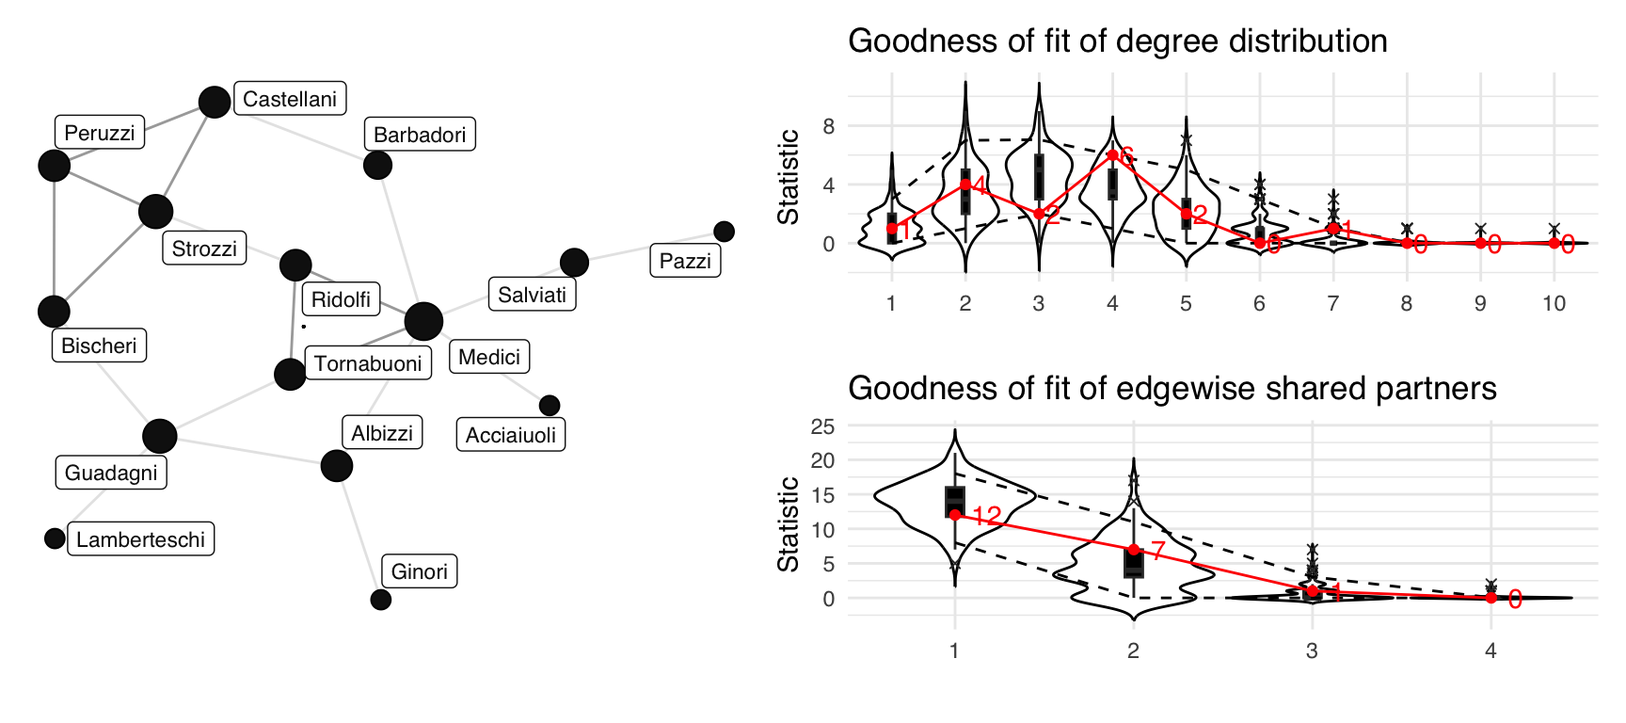
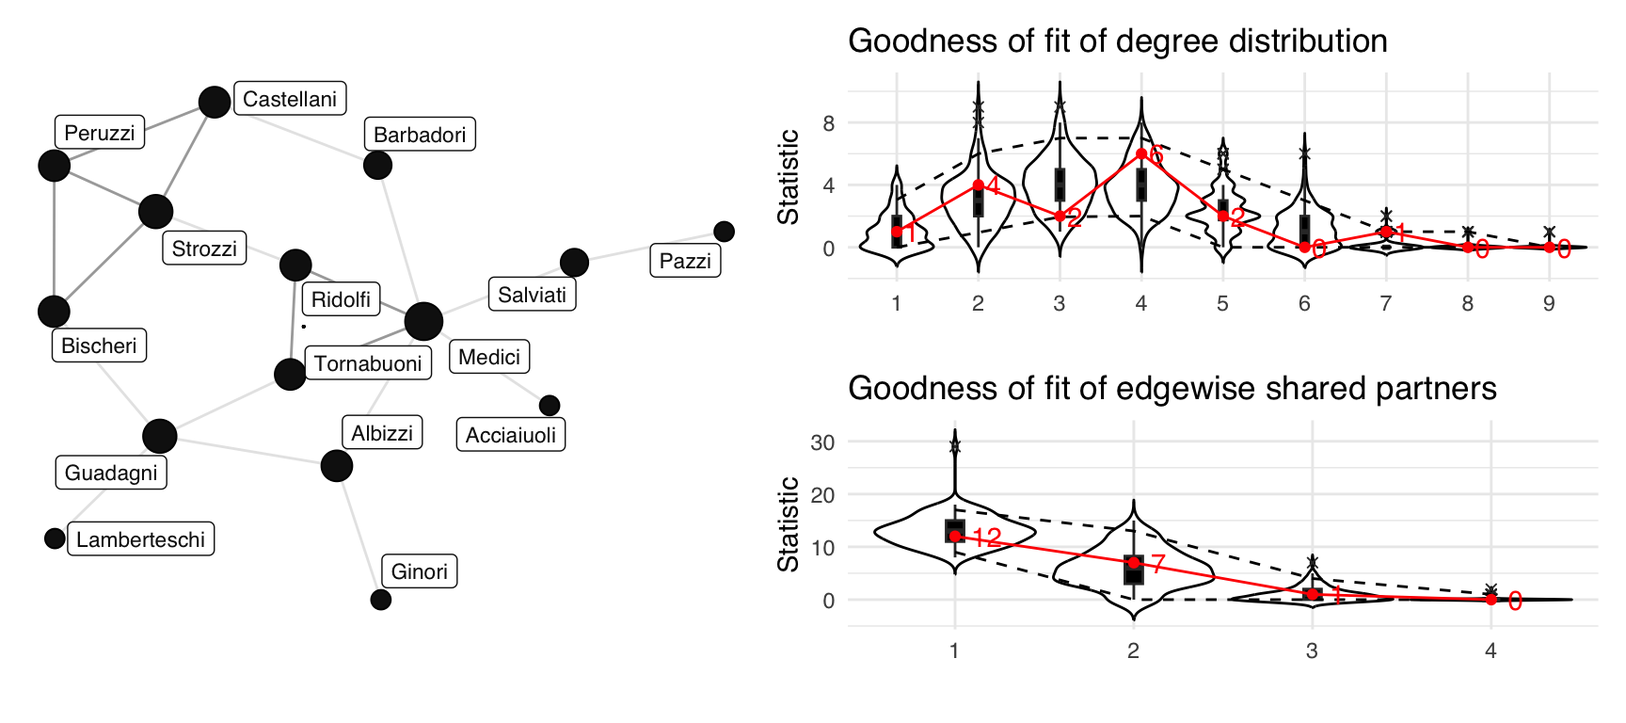
Fixed some issues in the ergm tutorial

diff --git a/inst/tutorials/infernet3/ergm.html b/inst/tutorials/infernet3/ergm.html
@@ -326,14 +326,28 @@ tidy(flom.bern, exponentiate = TRUE, conf.int = TRUE) # To return the odds ratio
 <script type="application/json" data-ui-opts="1">{"engine":"r","has_checker":false,"caption":"<span data-i18n=\"text.enginecap\" data-i18n-opts=\"{&quot;engine&quot;:&quot;R&quot;}\">R Code<\/span>"}</script>
 </div>
 <p>Odds are much more intuitive to interpret than log-odds. Odds range
-from 0 to \(\) (but never negative). Essentially, if the odds ratio is
-1:1, then event and non-event equally likely. If odds ratio greater than
-1, then event more likely than non-event. If odds ratio less than 1,
-then event less likely than non-event. In other words:</p>
+from 0 to \(\) (but never negative). In this edges-only model, the edges
+term works like an intercept, so its exponent, 0.2, is the <em>odds</em>
+of a tie, \((Y=1)/(Y=0)\). If the odds are 1 (1:1), then event and
+non-event are equally likely. If the odds are greater than 1, then the
+event is more likely than the non-event. If the odds are less than 1,
+then the event is less likely than the non-event. In other words:</p>
 <ul>
-<li>OR&gt;1: \((Y=1) &gt; (Y=0)\)</li>
-<li>OR&lt;1: \((Y=1) &lt; (Y=0)\)</li>
-<li>OR=1: \((Y=1) = (Y=0)\)</li>
+<li>Odds&gt;1: \((Y=1) &gt; (Y=0)\)</li>
+<li>Odds&lt;1: \((Y=1) &lt; (Y=0)\)</li>
+<li>Odds=1: \((Y=1) = (Y=0)\)</li>
+</ul>
+<p>So odds of 0.2 mean that a tie is a fifth as likely as no tie, a
+probability of 0.2/1.2, or about 1/6.</p>
+<p>The exponent of a covariate’s coefficient is instead an <em>odds
+ratio</em>: it is the factor by which the odds of a tie change for each
+unit increase in that covariate. An odds ratio above 1 makes a tie more
+likely than it would otherwise be, but not necessarily more likely than
+no tie, since that also depends on the baseline odds.</p>
+<ul>
+<li>OR&gt;1: the odds of a tie rise as \(X\) increases</li>
+<li>OR&lt;1: the odds of a tie fall as \(X\) increases</li>
+<li>OR=1: \(X\) makes no difference to the odds of a tie</li>
 </ul>
 </div>
 <div id="section-predicted-probabilities" class="section level3">
@@ -1212,26 +1226,33 @@ learnr:::store_exercise_cache(structure(list(label = "flombee", global_setup = s
  
 <script type="application/shiny-prerendered" data-context="server">
 learnr:::question_prerendered_chunk(structure(list(type = "learnr_radio", label = "signfq", question = structure("Which statement is most detailed and correct?", html = TRUE, class = c("html", 
-"character")), answers = list(structure(list(id = "lnr_ans_b847f37", 
+"character")), answers = list(structure(list(id = "lnr_ans_90ee4da", 
     option = "There is a statistically significant effect here.", 
     value = "There is a statistically significant effect here.", 
     label = structure("There is a statistically significant effect here.", html = TRUE, class = c("html", 
     "character")), correct = FALSE, message = NULL, type = "literal"), class = c("tutorial_question_answer", 
-"tutorial_quiz_answer")), structure(list(id = "lnr_ans_41f8a4c", 
+"tutorial_quiz_answer")), structure(list(id = "lnr_ans_67783a2", 
     option = "The edges coefficient is negative, indicating that as the number of edges increases, the probability of a tie forming between any two nodes decreases.", 
     value = "The edges coefficient is negative, indicating that as the number of edges increases, the probability of a tie forming between any two nodes decreases.", 
     label = structure("The edges coefficient is negative, indicating that as the number of edges increases, the probability of a tie forming between any two nodes decreases.", html = TRUE, class = c("html", 
-    "character")), correct = FALSE, message = NULL, type = "literal"), class = c("tutorial_question_answer", 
-"tutorial_quiz_answer")), structure(list(id = "lnr_ans_8f609d1", 
+    "character")), correct = FALSE, message = structure("An edges-only model has no dependence between ties, so the probability of a tie does not change with the number of other edges.", html = TRUE, class = c("html", 
+    "character")), type = "literal"), class = c("tutorial_question_answer", 
+"tutorial_quiz_answer")), structure(list(id = "lnr_ans_625fe17", 
     option = "The edges coefficient is negative and statistically significant, indicating that as the number of edges increases, the probability of a tie forming between any two nodes decreases.", 
     value = "The edges coefficient is negative and statistically significant, indicating that as the number of edges increases, the probability of a tie forming between any two nodes decreases.", 
     label = structure("The edges coefficient is negative and statistically significant, indicating that as the number of edges increases, the probability of a tie forming between any two nodes decreases.", html = TRUE, class = c("html", 
+    "character")), correct = FALSE, message = structure("An edges-only model has no dependence between ties, so the probability of a tie does not change with the number of other edges.", html = TRUE, class = c("html", 
+    "character")), type = "literal"), class = c("tutorial_question_answer", 
+"tutorial_quiz_answer")), structure(list(id = "lnr_ans_1450704", 
+    option = "The edges coefficient is negative and statistically significant, indicating that a tie between any two nodes is less likely than no tie, with the same probability (about 1/6) for every pair.", 
+    value = "The edges coefficient is negative and statistically significant, indicating that a tie between any two nodes is less likely than no tie, with the same probability (about 1/6) for every pair.", 
+    label = structure("The edges coefficient is negative and statistically significant, indicating that a tie between any two nodes is less likely than no tie, with the same probability (about 1/6) for every pair.", html = TRUE, class = c("html", 
     "character")), correct = TRUE, message = NULL, type = "literal"), class = c("tutorial_question_answer", 
-"tutorial_quiz_answer")), structure(list(id = "lnr_ans_cc0bcb8", 
+"tutorial_quiz_answer")), structure(list(id = "lnr_ans_c41752f", 
     option = "There are -1.609438 ties in this network.", value = "There are -1.609438 ties in this network.", 
     label = structure("There are -1.609438 ties in this network.", html = TRUE, class = c("html", 
     "character")), correct = FALSE, message = NULL, type = "literal"), class = c("tutorial_question_answer", 
-"tutorial_quiz_answer")), structure(list(id = "lnr_ans_6caa92", 
+"tutorial_quiz_answer")), structure(list(id = "lnr_ans_69b2d6c", 
     option = "There is no statistically significant effect here.", 
     value = "There is no statistically significant effect here.", 
     label = structure("There is no statistically significant effect here.", html = TRUE, class = c("html", 
@@ -1243,7 +1264,7 @@ learnr:::question_prerendered_chunk(structure(list(type = "learnr_radio", label 
 "character")), incorrect = structure("Incorrect", html = TRUE, class = c("html", 
 "character")), message = NULL, post_message = NULL), ids = list(
     answer = "signfq-answer", question = "signfq"), loading = NULL, 
-    random_answer_order = TRUE, allow_retry = TRUE, seed = 304061997.85841, 
+    random_answer_order = TRUE, allow_retry = TRUE, seed = 507448816.263701, 
     options = list()), class = c("learnr_radio", "tutorial_question"
 )), session = session)
 </script>
@@ -2296,18 +2317,21 @@ learnr:::store_exercise_cache(structure(list(label = "magnfit", global_setup = s
 "                                      \"Beau travail!\",", "                                      \"Bravo!\",", 
 "                                      \"Super!\"),", "                           encouragement = \"Bon effort\")"
 ), chunk_opts = list(label = "setup", include = FALSE, purl = FALSE, 
-    eval = TRUE)), setup = NULL, chunks = list(list(label = "magnfit", 
-    code = "magn.attr.gof <- gof(magn.attr,  GOF = ~ degree + distance + triadcensus + espartners - model)\nplot(magn.attr.gof, statistic = \"deg\")", 
-    opts = list(label = "\"magnfit\"", exercise = "TRUE", fig.width = "9"), 
-    engine = "r")), code_check = NULL, error_check = NULL, check = NULL, 
-    solution = NULL, tests = NULL, options = list(eval = FALSE, 
-        echo = TRUE, results = "markup", tidy = FALSE, tidy.opts = NULL, 
-        collapse = FALSE, prompt = FALSE, comment = NA, highlight = FALSE, 
-        size = "normalsize", background = "#F7F7F7", strip.white = TRUE, 
-        cache = 0, cache.path = "ergm_cache/html/", cache.vars = NULL, 
-        cache.lazy = TRUE, dependson = NULL, autodep = FALSE, 
-        cache.rebuild = FALSE, fig.keep = "high", fig.show = "asis", 
-        fig.align = "default", fig.path = "ergm_files/figure-html/", 
+    eval = TRUE)), setup = "magn.attr <- ergm(magnolia ~ edges + gwesp(0.25,fixed=T) + gwdegree(0.25,fixed=T) + \n                     nodematch('Grade') +\tnodematch('Race') + nodematch('Sex'))\nplot(magn.attr)", 
+    chunks = list(list(label = "magnattr", code = "magn.attr <- ergm(magnolia ~ edges + gwesp(0.25,fixed=T) + gwdegree(0.25,fixed=T) + \n                     nodematch('Grade') +\tnodematch('Race') + nodematch('Sex'))\nplot(magn.attr)", 
+        opts = list(label = "\"magnattr\"", exercise = "TRUE"), 
+        engine = "r"), list(label = "magnfit", code = "magn.attr.gof <- gof(magn.attr,  GOF = ~ degree + distance + triadcensus + espartners - model)\nplot(magn.attr.gof, statistic = \"deg\")", 
+        opts = list(label = "\"magnfit\"", exercise = "TRUE", 
+            exercise.setup = "\"magnattr\"", fig.width = "9"), 
+        engine = "r")), code_check = NULL, error_check = NULL, 
+    check = NULL, solution = NULL, tests = NULL, options = list(
+        eval = FALSE, echo = TRUE, results = "markup", tidy = FALSE, 
+        tidy.opts = NULL, collapse = FALSE, prompt = FALSE, comment = NA, 
+        highlight = FALSE, size = "normalsize", background = "#F7F7F7", 
+        strip.white = TRUE, cache = 0, cache.path = "ergm_cache/html/", 
+        cache.vars = NULL, cache.lazy = TRUE, dependson = NULL, 
+        autodep = FALSE, cache.rebuild = FALSE, fig.keep = "high", 
+        fig.show = "asis", fig.align = "default", fig.path = "ergm_files/figure-html/", 
         dev = "png", dev.args = NULL, dpi = 192, fig.ext = "png", 
         fig.width = 9, fig.height = 4, fig.env = "figure", fig.cap = NULL, 
         fig.scap = NULL, fig.note = NULL, fig.lp = "fig:", fig.subcap = NULL, 
@@ -2317,9 +2341,9 @@ learnr:::store_exercise_cache(structure(list(label = "magnfit", global_setup = s
         message = TRUE, render = NULL, ref.label = NULL, child = NULL, 
         engine = "r", split = FALSE, include = TRUE, purl = TRUE, 
         max.print = 1000, label = "magnfit", exercise = TRUE, 
-        code = c("magn.attr.gof <- gof(magn.attr,  GOF = ~ degree + distance + triadcensus + espartners - model)", 
+        exercise.setup = "magnattr", code = c("magn.attr.gof <- gof(magn.attr,  GOF = ~ degree + distance + triadcensus + espartners - model)", 
         "plot(magn.attr.gof, statistic = \"deg\")"), out.width.px = 864, 
-        out.height.px = 384, params.src = "magnfit, exercise = TRUE, fig.width=9", 
+        out.height.px = 384, params.src = "magnfit, exercise = TRUE, exercise.setup = \"magnattr\", fig.width=9", 
         fig.num = 0, exercise.df_print = "paged", exercise.checker = "NULL"), 
     engine = "r", version = "4"), class = c("r", "tutorial_exercise"
 )))
@@ -2360,18 +2384,21 @@ learnr:::store_exercise_cache(structure(list(label = "magsim", global_setup = st
 "                                      \"Beau travail!\",", "                                      \"Bravo!\",", 
 "                                      \"Super!\"),", "                           encouragement = \"Bon effort\")"
 ), chunk_opts = list(label = "setup", include = FALSE, purl = FALSE, 
-    eval = TRUE)), setup = NULL, chunks = list(list(label = "magsim", 
-    code = "magn.sim1 <- simulate(magn.attr)\ngraphr(magnolia, node_color = \"Grade\", node_size = 0.2, labels = FALSE) + \n  ggtitle(\"Observed\") +\n  graphr(magn.sim1, node_color = \"Grade\", node_size = 0.2, labels = FALSE) + \n  ggtitle(\"Simulated\")", 
-    opts = list(label = "\"magsim\"", exercise = "TRUE", fig.width = "9"), 
-    engine = "r")), code_check = NULL, error_check = NULL, check = NULL, 
-    solution = NULL, tests = NULL, options = list(eval = FALSE, 
-        echo = TRUE, results = "markup", tidy = FALSE, tidy.opts = NULL, 
-        collapse = FALSE, prompt = FALSE, comment = NA, highlight = FALSE, 
-        size = "normalsize", background = "#F7F7F7", strip.white = TRUE, 
-        cache = 0, cache.path = "ergm_cache/html/", cache.vars = NULL, 
-        cache.lazy = TRUE, dependson = NULL, autodep = FALSE, 
-        cache.rebuild = FALSE, fig.keep = "high", fig.show = "asis", 
-        fig.align = "default", fig.path = "ergm_files/figure-html/", 
+    eval = TRUE)), setup = "magn.attr <- ergm(magnolia ~ edges + gwesp(0.25,fixed=T) + gwdegree(0.25,fixed=T) + \n                     nodematch('Grade') +\tnodematch('Race') + nodematch('Sex'))\nplot(magn.attr)", 
+    chunks = list(list(label = "magnattr", code = "magn.attr <- ergm(magnolia ~ edges + gwesp(0.25,fixed=T) + gwdegree(0.25,fixed=T) + \n                     nodematch('Grade') +\tnodematch('Race') + nodematch('Sex'))\nplot(magn.attr)", 
+        opts = list(label = "\"magnattr\"", exercise = "TRUE"), 
+        engine = "r"), list(label = "magsim", code = "magn.sim1 <- simulate(magn.attr)\ngraphr(magnolia, node_color = \"Grade\", node_size = 0.2, labels = FALSE) + \n  ggtitle(\"Observed\") +\n  graphr(magn.sim1, node_color = \"Grade\", node_size = 0.2, labels = FALSE) + \n  ggtitle(\"Simulated\")", 
+        opts = list(label = "\"magsim\"", exercise = "TRUE", 
+            exercise.setup = "\"magnattr\"", fig.width = "9"), 
+        engine = "r")), code_check = NULL, error_check = NULL, 
+    check = NULL, solution = NULL, tests = NULL, options = list(
+        eval = FALSE, echo = TRUE, results = "markup", tidy = FALSE, 
+        tidy.opts = NULL, collapse = FALSE, prompt = FALSE, comment = NA, 
+        highlight = FALSE, size = "normalsize", background = "#F7F7F7", 
+        strip.white = TRUE, cache = 0, cache.path = "ergm_cache/html/", 
+        cache.vars = NULL, cache.lazy = TRUE, dependson = NULL, 
+        autodep = FALSE, cache.rebuild = FALSE, fig.keep = "high", 
+        fig.show = "asis", fig.align = "default", fig.path = "ergm_files/figure-html/", 
         dev = "png", dev.args = NULL, dpi = 192, fig.ext = "png", 
         fig.width = 9, fig.height = 4, fig.env = "figure", fig.cap = NULL, 
         fig.scap = NULL, fig.note = NULL, fig.lp = "fig:", fig.subcap = NULL, 
@@ -2381,10 +2408,11 @@ learnr:::store_exercise_cache(structure(list(label = "magsim", global_setup = st
         message = TRUE, render = NULL, ref.label = NULL, child = NULL, 
         engine = "r", split = FALSE, include = TRUE, purl = TRUE, 
         max.print = 1000, label = "magsim", exercise = TRUE, 
-        code = c("magn.sim1 <- simulate(magn.attr)", "graphr(magnolia, node_color = \"Grade\", node_size = 0.2, labels = FALSE) + ", 
+        exercise.setup = "magnattr", code = c("magn.sim1 <- simulate(magn.attr)", 
+        "graphr(magnolia, node_color = \"Grade\", node_size = 0.2, labels = FALSE) + ", 
         "  ggtitle(\"Observed\") +", "  graphr(magn.sim1, node_color = \"Grade\", node_size = 0.2, labels = FALSE) + ", 
         "  ggtitle(\"Simulated\")"), out.width.px = 864, out.height.px = 384, 
-        params.src = "magsim, exercise = TRUE, fig.width=9", 
+        params.src = "magsim, exercise = TRUE, exercise.setup = \"magnattr\", fig.width=9", 
         fig.num = 0, exercise.df_print = "paged", exercise.checker = "NULL"), 
     engine = "r", version = "4"), class = c("r", "tutorial_exercise"
 )))
@@ -2488,18 +2516,21 @@ learnr:::store_exercise_cache(structure(list(label = "flobgof", global_setup = s
 "                                      \"Beau travail!\",", "                                      \"Bravo!\",", 
 "                                      \"Super!\"),", "                           encouragement = \"Bon effort\")"
 ), chunk_opts = list(label = "setup", include = FALSE, purl = FALSE, 
-    eval = TRUE)), setup = NULL, chunks = list(list(label = "flobgof", 
-    code = "(flob.gof <- gof(flob,  GOF = ~ degree + triadcensus + espartners - model))\nplot(flob.gof)", 
-    opts = list(label = "\"flobgof\"", exercise = "TRUE", fig.width = "9"), 
-    engine = "r")), code_check = NULL, error_check = NULL, check = NULL, 
-    solution = NULL, tests = NULL, options = list(eval = FALSE, 
-        echo = TRUE, results = "markup", tidy = FALSE, tidy.opts = NULL, 
-        collapse = FALSE, prompt = FALSE, comment = NA, highlight = FALSE, 
-        size = "normalsize", background = "#F7F7F7", strip.white = TRUE, 
-        cache = 0, cache.path = "ergm_cache/html/", cache.vars = NULL, 
-        cache.lazy = TRUE, dependson = NULL, autodep = FALSE, 
-        cache.rebuild = FALSE, fig.keep = "high", fig.show = "asis", 
-        fig.align = "default", fig.path = "ergm_files/figure-html/", 
+    eval = TRUE)), setup = "flob <- ergm(flobusiness ~ edges + gwdegree(0.25, fixed = T) + gwesp(0.25, fixed = T) + \n       nodecov('wealth') + dyadcov(flomarriage))\ntidy(flob)\nglance(flob)", 
+    chunks = list(list(label = "flob", code = "flob <- ergm(flobusiness ~ edges + gwdegree(0.25, fixed = T) + gwesp(0.25, fixed = T) + \n       nodecov('wealth') + dyadcov(flomarriage))\ntidy(flob)\nglance(flob)", 
+        opts = list(label = "\"flob\"", exercise = "TRUE"), engine = "r"), 
+        list(label = "flobgof", code = "(flob.gof <- gof(flob,  GOF = ~ degree + triadcensus + espartners - model))\nplot(flob.gof)", 
+            opts = list(label = "\"flobgof\"", exercise = "TRUE", 
+                exercise.setup = "\"flob\"", fig.width = "9"), 
+            engine = "r")), code_check = NULL, error_check = NULL, 
+    check = NULL, solution = NULL, tests = NULL, options = list(
+        eval = FALSE, echo = TRUE, results = "markup", tidy = FALSE, 
+        tidy.opts = NULL, collapse = FALSE, prompt = FALSE, comment = NA, 
+        highlight = FALSE, size = "normalsize", background = "#F7F7F7", 
+        strip.white = TRUE, cache = 0, cache.path = "ergm_cache/html/", 
+        cache.vars = NULL, cache.lazy = TRUE, dependson = NULL, 
+        autodep = FALSE, cache.rebuild = FALSE, fig.keep = "high", 
+        fig.show = "asis", fig.align = "default", fig.path = "ergm_files/figure-html/", 
         dev = "png", dev.args = NULL, dpi = 192, fig.ext = "png", 
         fig.width = 9, fig.height = 4, fig.env = "figure", fig.cap = NULL, 
         fig.scap = NULL, fig.note = NULL, fig.lp = "fig:", fig.subcap = NULL, 
@@ -2509,9 +2540,9 @@ learnr:::store_exercise_cache(structure(list(label = "flobgof", global_setup = s
         message = TRUE, render = NULL, ref.label = NULL, child = NULL, 
         engine = "r", split = FALSE, include = TRUE, purl = TRUE, 
         max.print = 1000, label = "flobgof", exercise = TRUE, 
-        code = c("(flob.gof <- gof(flob,  GOF = ~ degree + triadcensus + espartners - model))", 
+        exercise.setup = "flob", code = c("(flob.gof <- gof(flob,  GOF = ~ degree + triadcensus + espartners - model))", 
         "plot(flob.gof)"), out.width.px = 864, out.height.px = 384, 
-        params.src = "flobgof, exercise = TRUE, fig.width=9", 
+        params.src = "flobgof, exercise = TRUE, exercise.setup = \"flob\", fig.width=9", 
         fig.num = 0, exercise.df_print = "paged", exercise.checker = "NULL"), 
     engine = "r", version = "4"), class = c("r", "tutorial_exercise"
 )))
@@ -2520,33 +2551,33 @@ learnr:::store_exercise_cache(structure(list(label = "flobgof", global_setup = s
 
 <script type="application/shiny-prerendered" data-context="server">
 learnr:::question_prerendered_chunk(structure(list(type = "learnr_checkbox", label = "dependq", question = structure("What kind of (statistical) dependencies do network analysts often consider?", html = TRUE, class = c("html", 
-"character")), answers = list(structure(list(id = "lnr_ans_575e3e", 
+"character")), answers = list(structure(list(id = "lnr_ans_68565d4", 
     option = "Independence", value = "Independence", label = structure("Independence", html = TRUE, class = c("html", 
     "character")), correct = FALSE, message = structure("A model with full independence across observations would be considered too simplistic for network data.", html = TRUE, class = c("html", 
     "character")), type = "literal"), class = c("tutorial_question_answer", 
-"tutorial_quiz_answer")), structure(list(id = "lnr_ans_ffcad5e", 
+"tutorial_quiz_answer")), structure(list(id = "lnr_ans_ddbe8f0", 
     option = "Dyad independence", value = "Dyad independence", 
     label = structure("Dyad independence", html = TRUE, class = c("html", 
     "character")), correct = TRUE, message = NULL, type = "literal"), class = c("tutorial_question_answer", 
-"tutorial_quiz_answer")), structure(list(id = "lnr_ans_d1bb38d", 
+"tutorial_quiz_answer")), structure(list(id = "lnr_ans_399c1a6", 
     option = "Markov", value = "Markov", label = structure("Markov", html = TRUE, class = c("html", 
     "character")), correct = TRUE, message = NULL, type = "literal"), class = c("tutorial_question_answer", 
-"tutorial_quiz_answer")), structure(list(id = "lnr_ans_a811c83", 
+"tutorial_quiz_answer")), structure(list(id = "lnr_ans_c07503d", 
     option = "Social circuit", value = "Social circuit", label = structure("Social circuit", html = TRUE, class = c("html", 
     "character")), correct = TRUE, message = NULL, type = "literal"), class = c("tutorial_question_answer", 
-"tutorial_quiz_answer")), structure(list(id = "lnr_ans_98d3004", 
+"tutorial_quiz_answer")), structure(list(id = "lnr_ans_8b3b7e1", 
     option = "Partial conditional", value = "Partial conditional", 
     label = structure("Partial conditional", html = TRUE, class = c("html", 
     "character")), correct = TRUE, message = NULL, type = "literal"), class = c("tutorial_question_answer", 
-"tutorial_quiz_answer")), structure(list(id = "lnr_ans_9307503", 
+"tutorial_quiz_answer")), structure(list(id = "lnr_ans_4093de6", 
     option = "Trade", value = "Trade", label = structure("Trade", html = TRUE, class = c("html", 
     "character")), correct = FALSE, message = structure("This is not a type of statistical dependency.", html = TRUE, class = c("html", 
     "character")), type = "literal"), class = c("tutorial_question_answer", 
-"tutorial_quiz_answer")), structure(list(id = "lnr_ans_20f8402", 
+"tutorial_quiz_answer")), structure(list(id = "lnr_ans_bb629bc", 
     option = "Environment", value = "Environment", label = structure("Environment", html = TRUE, class = c("html", 
     "character")), correct = FALSE, message = structure("This is not a type of statistical dependency.", html = TRUE, class = c("html", 
     "character")), type = "literal"), class = c("tutorial_question_answer", 
-"tutorial_quiz_answer")), structure(list(id = "lnr_ans_265f28e", 
+"tutorial_quiz_answer")), structure(list(id = "lnr_ans_8615273", 
     option = "Health", value = "Health", label = structure("Health", html = TRUE, class = c("html", 
     "character")), correct = FALSE, message = structure("This is not a type of statistical dependency.", html = TRUE, class = c("html", 
     "character")), type = "literal"), class = c("tutorial_question_answer", 
@@ -2557,7 +2588,7 @@ learnr:::question_prerendered_chunk(structure(list(type = "learnr_checkbox", lab
 "character")), incorrect = structure("Incorrect", html = TRUE, class = c("html", 
 "character")), message = NULL, post_message = NULL), ids = list(
     answer = "dependq-answer", question = "dependq"), loading = NULL, 
-    random_answer_order = TRUE, allow_retry = TRUE, seed = 606332864.717654, 
+    random_answer_order = TRUE, allow_retry = TRUE, seed = 499837582.267245, 
     options = list()), class = c("learnr_checkbox", "tutorial_question"
 )), session = session)
 </script>
@@ -2631,7 +2662,7 @@ learnr:::store_exercise_cache(structure(list(label = "freeplay", global_setup = 
 <!--/html_preserve-->
 <!--html_preserve-->
 <script type="application/shiny-prerendered" data-context="execution_dependencies">
-{"type":"list","attributes":{"names":{"type":"character","attributes":{},"value":["packages"]}},"value":[{"type":"list","attributes":{"names":{"type":"character","attributes":{},"value":["packages","version"]},"class":{"type":"character","attributes":{},"value":["data.frame"]},"row.names":{"type":"integer","attributes":{},"value":[1,2,3,4,5,6,7,8,9,10,11,12,13,14,15,16,17,18,19,20,21,22,23,24,25,26,27,28,29,30,31,32,33,34,35,36,37,38,39,40,41,42,43,44,45,46,47,48,49,50,51,52,53,54,55,56,57,58,59,60,61,62,63,64,65,66,67,68,69,70,71,72,73,74,75,76,77,78,79,80,81,82,83,84,85,86,87,88,89,90,91,92,93,94,95,96,97]}},"value":[{"type":"character","attributes":{},"value":["autograph","backports","base","bslib","cachem","checkmate","cli","coda","commonmark","compiler","datasets","DEoptimR","digest","dplyr","ergm","evaluate","farver","fastmap","fontawesome","generics","ggforce","ggplot2","ggraph","ggrepel","glue","graphics","graphlayouts","grDevices","grid","gridExtra","gtable","htmltools","htmlwidgets","httpuv","igraph","infernet","jquerylib","jsonlite","knitr","labeling","later","lattice","learnr","lifecycle","litedown","lpSolveAPI","magrittr","manynet","markdown","MASS","Matrix","memoise","methods","mime","netrics","network","otel","parallel","patchwork","pillar","pkgconfig","polyclip","promises","purrr","R6","rbibutils","RColorBrewer","Rcpp","Rdpack","rlang","rle","rmarkdown","robustbase","rprojroot","S7","sass","scales","shiny","statnet.common","stats","stringi","stringr","tibble","tidygraph","tidyr","tidyselect","tools","trust","tweenr","utils","vctrs","viridis","viridisLite","withr","xfun","xtable","yaml"]},{"type":"character","attributes":{},"value":["1.2.8","1.5.1","4.6.1","0.12.0","1.1.0","2.3.4","3.6.6","0.19-4.1","2.0.0","4.6.1","4.6.1","1.2-2","0.6.39","1.2.1","4.12.0","1.0.5","2.1.2","1.2.0","0.5.3","0.1.4","0.5.0","4.0.3","2.2.2","0.9.8","1.8.1","4.6.1","1.2.5","4.6.1","4.6.1","2.3.1","0.3.6","0.5.9","1.6.4","1.6.17","2.3.4","0.6.2","0.1.4","2.0.0","1.52","0.4.3","1.4.8","0.23-1","0.11.6","1.0.5","0.11","5.5.2.0-17.15","2.0.5","2.4.4","2.0","7.3-66","1.7-6","2.0.1","4.6.1","0.13","1.1.2","1.20.0","0.2.0","4.6.1","1.3.2","1.11.1","2.0.3","1.10-7","1.5.0","1.2.2","2.6.1","2.4.1","1.1-3","1.1.2","2.6.6","1.3.0","0.10.0","2.32","0.99-7","2.1.1","0.2.2","0.4.10","1.4.0","1.14.0","4.13.0","4.6.1","1.8.9","1.6.0","3.3.1","1.3.1","1.3.2","1.2.1","4.6.1","0.1-9","2.0.3","4.6.1","0.7.3","0.6.5","0.4.3","3.0.3","0.62","1.8-8","2.3.12"]}]}]}
+{"type":"list","attributes":{"names":{"type":"character","attributes":{},"value":["packages"]}},"value":[{"type":"list","attributes":{"names":{"type":"character","attributes":{},"value":["packages","version"]},"class":{"type":"character","attributes":{},"value":["data.frame"]},"row.names":{"type":"integer","attributes":{},"value":[1,2,3,4,5,6,7,8,9,10,11,12,13,14,15,16,17,18,19,20,21,22,23,24,25,26,27,28,29,30,31,32,33,34,35,36,37,38,39,40,41,42,43,44,45,46,47,48,49,50,51,52,53,54,55,56,57,58,59,60,61,62,63,64,65,66,67,68,69,70,71,72,73,74,75,76,77,78,79,80,81,82,83,84,85,86,87,88,89,90,91,92,93,94,95,96,97]}},"value":[{"type":"character","attributes":{},"value":["autograph","backports","base","bslib","cachem","checkmate","cli","coda","commonmark","compiler","datasets","DEoptimR","digest","dplyr","ergm","evaluate","farver","fastmap","fontawesome","generics","ggforce","ggplot2","ggraph","ggrepel","glue","graphics","graphlayouts","grDevices","grid","gridExtra","gtable","htmltools","htmlwidgets","httpuv","igraph","infernet","jquerylib","jsonlite","knitr","labeling","later","lattice","learnr","lifecycle","litedown","lpSolveAPI","magrittr","manynet","markdown","MASS","Matrix","memoise","methods","mime","netrics","network","otel","parallel","patchwork","pillar","pkgconfig","polyclip","promises","purrr","R6","rbibutils","RColorBrewer","Rcpp","Rdpack","rlang","rle","rmarkdown","robustbase","rprojroot","S7","sass","scales","shiny","statnet.common","stats","stringi","stringr","tibble","tidygraph","tidyr","tidyselect","tools","trust","tweenr","utils","vctrs","viridis","viridisLite","withr","xfun","xtable","yaml"]},{"type":"character","attributes":{},"value":["1.2.8","1.5.1","4.6.1","0.12.0","1.1.0","2.3.4","3.6.6","0.19-4.1","2.0.0","4.6.1","4.6.1","1.2-2","0.6.39","1.2.1","4.12.0","1.0.5","2.1.2","1.2.0","0.5.3","0.1.4","0.5.0","4.0.3","2.2.2","0.9.8","1.8.1","4.6.1","1.2.5","4.6.1","4.6.1","2.3.1","0.3.6","0.5.9","1.6.4","1.6.17","2.3.4","0.6.2","0.1.4","2.0.0","1.52","0.4.3","1.4.8","0.23-1","0.11.6","1.0.5","0.11","5.5.2.0-17.15","2.0.5","2.4.5","2.0","7.3-66","1.7-6","2.0.1","4.6.1","0.13","1.1.2","1.20.0","0.2.0","4.6.1","1.3.2","1.11.1","2.0.3","1.10-7","1.5.0","1.2.2","2.6.1","2.4.1","1.1-3","1.1.2","2.6.6","1.3.0","0.10.0","2.32","0.99-7","2.1.1","0.2.2","0.4.10","1.4.0","1.14.0","4.13.0","4.6.1","1.8.9","1.6.0","3.3.1","1.3.1","1.3.2","1.2.1","4.6.1","0.1-9","2.0.3","4.6.1","0.7.3","0.6.5","0.4.3","3.0.3","0.62","1.8-8","2.3.12"]}]}]}
 </script>
 <!--/html_preserve-->
 </div>

diff --git a/NEWS.md b/NEWS.md
@@ -14,6 +14,8 @@
 ## Tutorials
 
 - Moved the "Modelling with ERGMs" tutorial from `{migraph}`, as `infernet3`
+  - Fixed three exercises that could not find the model fitted before them
+  - Fixed the reading of the edges-only model and of its odds and odds ratios
 - Added `data-raw/build_tutorial_articles.R` to make tutorial static previews
 - Added a static preview of the "Modelling with ERGMs" tutorial to the website
 
